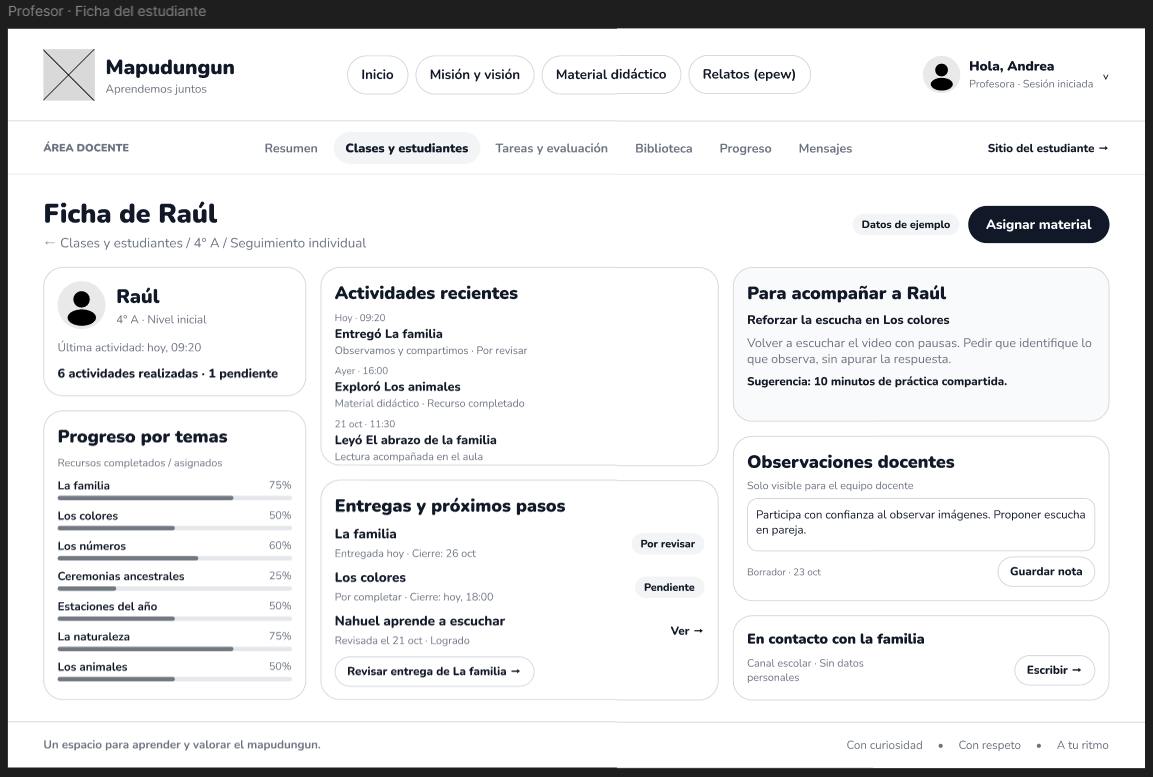
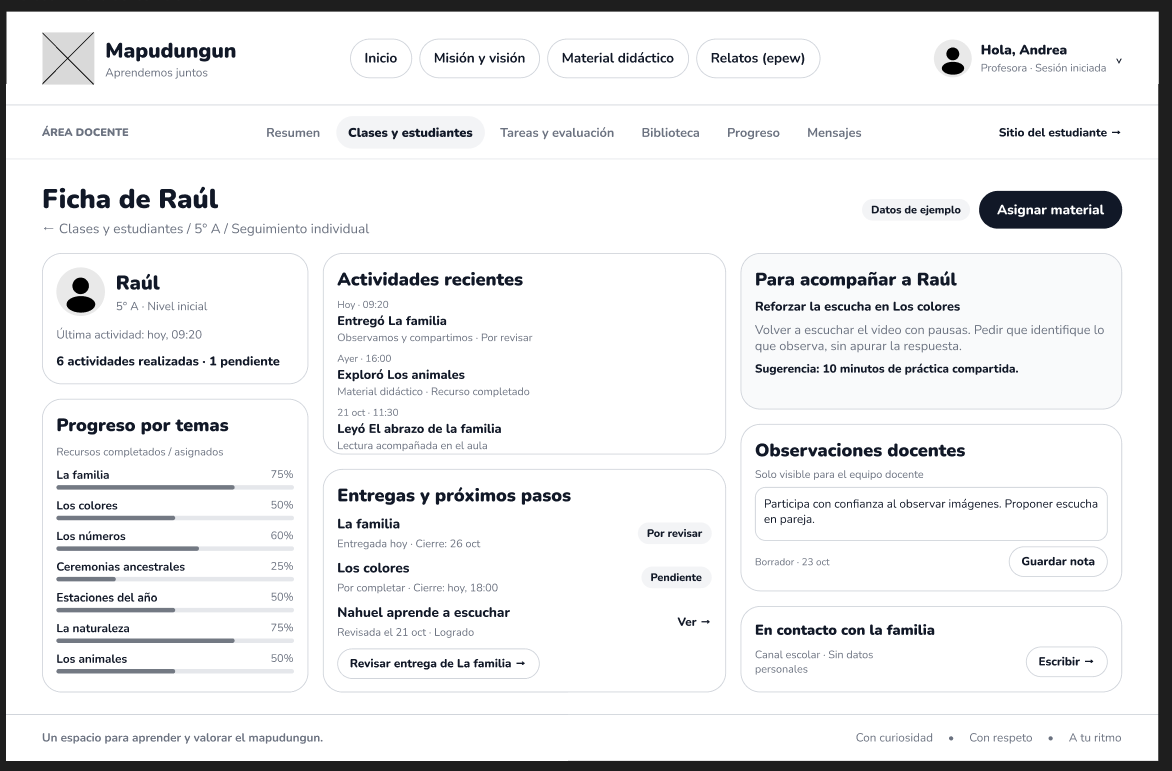
casi que ya esta listo

diff --git a/README.md b/README.md
@@ -118,25 +118,23 @@ This map represents our proposed experience rather than findings from user testi
 ![Inicio](./Files/Inicio.png)
 ![Mision_y_vision](./Files/Mision_y_vision.png)
 ![Relatos_(epew)](./Files/Relatos_(epew).png)
-![Customer_Journey_Map_Part1](./Files/Customer_Journey_Map.png)
-![Customer_Journey_Map_Part1](./Files/Customer_Journey_Map.png)
-![Customer_Journey_Map_Part1](./Files/Customer_Journey_Map.png)
-![Customer_Journey_Map_Part1](./Files/Customer_Journey_Map.png)
-![Customer_Journey_Map_Part1](./Files/Customer_Journey_Map.png)
-![Customer_Journey_Map_Part1](./Files/Customer_Journey_Map.png)
-![Customer_Journey_Map_Part1](./Files/Customer_Journey_Map.png)
-![Customer_Journey_Map_Part1](./Files/Customer_Journey_Map.png)
-![Customer_Journey_Map_Part1](./Files/Customer_Journey_Map.png)
-![Customer_Journey_Map_Part1](./Files/Customer_Journey_Map.png)
-![Customer_Journey_Map_Part1](./Files/Customer_Journey_Map.png)
-![Customer_Journey_Map_Part1](./Files/Customer_Journey_Map.png)
-![Customer_Journey_Map_Part1](./Files/Customer_Journey_Map.png)
-![Customer_Journey_Map_Part1](./Files/Customer_Journey_Map.png)
-![Customer_Journey_Map_Part1](./Files/Customer_Journey_Map.png)
-![Customer_Journey_Map_Part1](./Files/Customer_Journey_Map.png)
-![Customer_Journey_Map_Part1](./Files/Customer_Journey_Map.png)
-![Customer_Journey_Map_Part1](./Files/Customer_Journey_Map.png)
-![Customer_Journey_Map_Part1](./Files/Customer_Journey_Map.png)
+
+![Panel_del_estudiante](./Files/Panel_del_estudiante.png)
+![Iniciar_sesion](./Files/Iniciar_sesion.png)
+![Registrarse](./Files/Registrarse.png)
+![Material_didactico](./Files/Material_didactico.png)
+
+![Profesor-Resumen](./Files/Profesor-Resumen.png)
+![Profesor-Ficha_del_estudiante](./Files/Profesor-Ficha_del_estudiante.png)
+![Profesor-Crear_actividad](./Files/Profesor-Crear_actividad.png)
+![Profesor-Progreso_e_informes](./Files/Profesor-Progreso_e_informes.png)
+
+![Profesor-Clases_y_estudiantes](./Files/Profesor-Clases_y_estudiantes.png)
+![Profesor-Tareas_y_evaluacion](./Files/Profesor-Tareas_y_evaluacion.png)
+![Profesor-Biblioteca_docente](./Files/Profesor-Biblioteca_docente.png)
+![Profesor-Mensajes](./Files/Profesor-Mensajes.png)
+
+![Relato-Nahuel_aprende_a_escuchar](./Files/Relato-Nahuel_aprende_a_escuchar.png)
 
 ---
 
